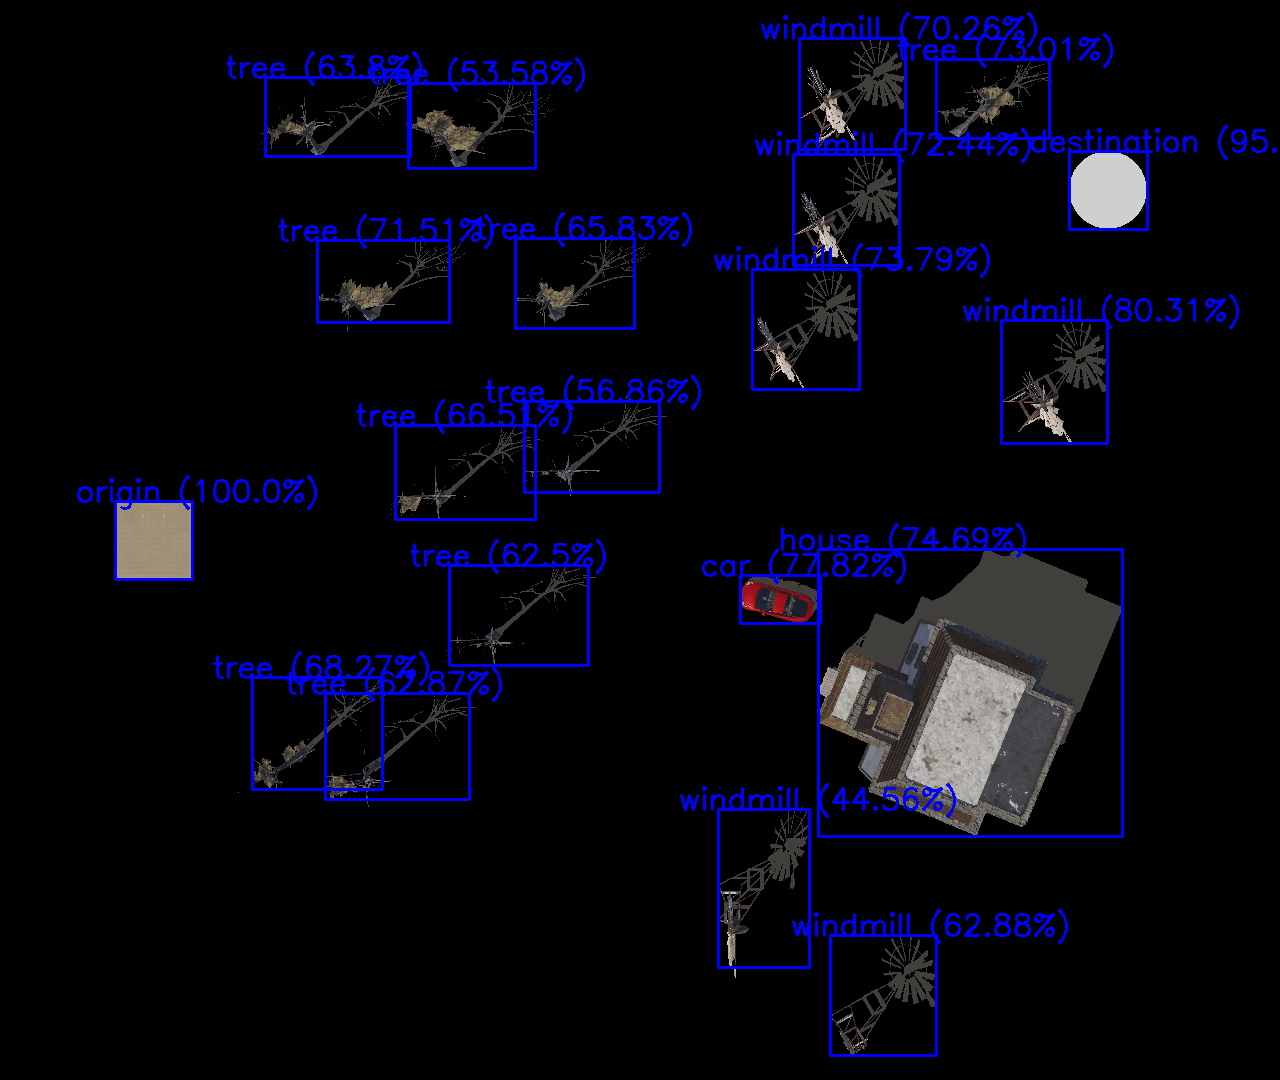
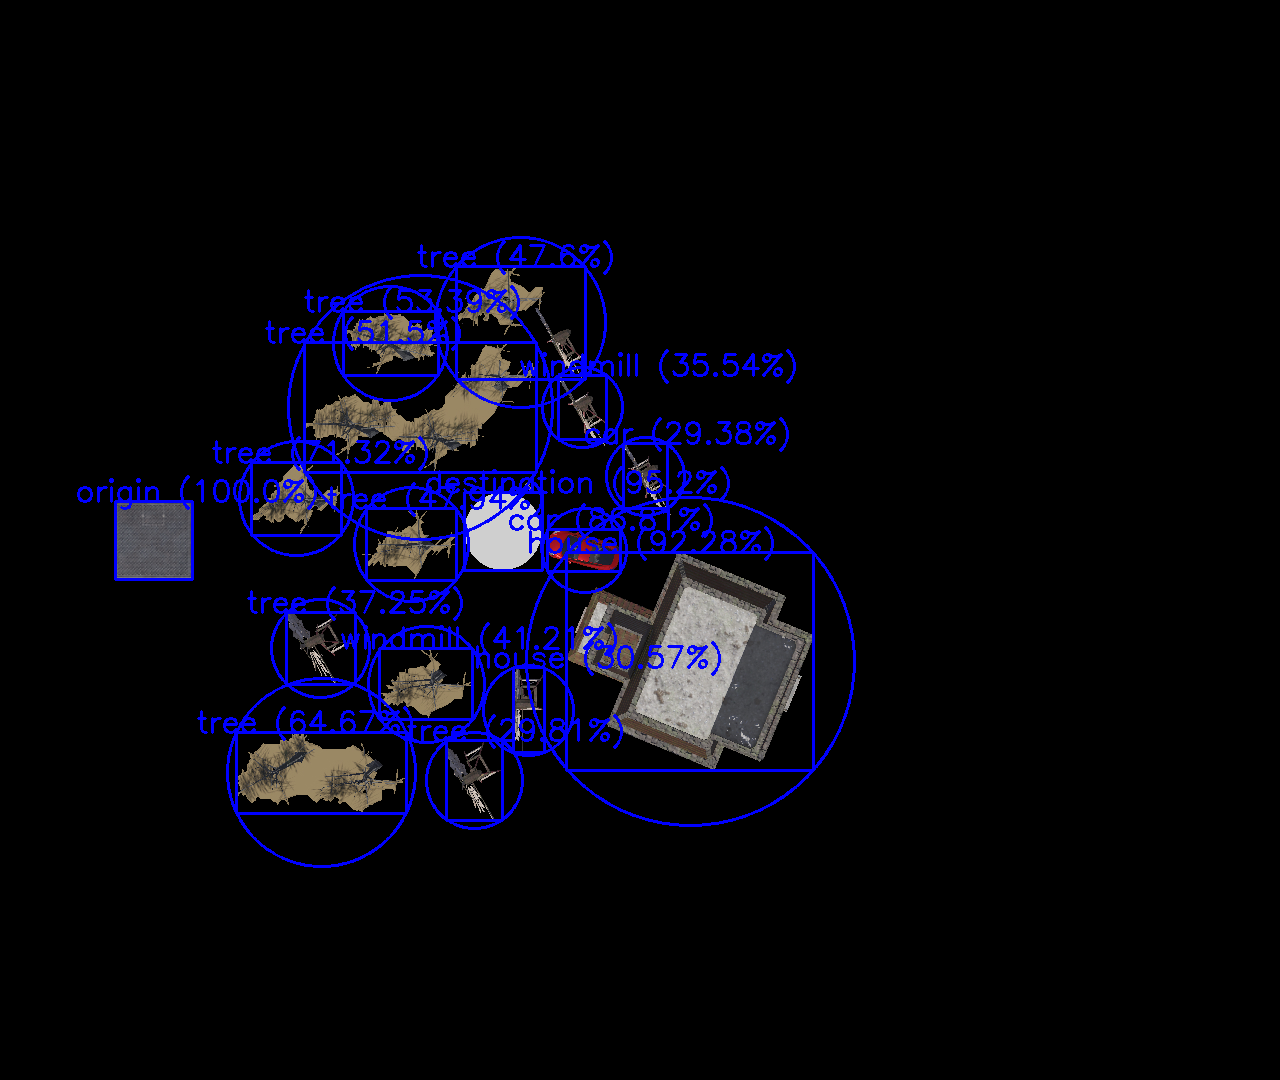
update

diff --git a/mavic_Edit_python/controllers/mavic2proPython/image_processing.py b/mavic_Edit_python/controllers/mavic2proPython/image_processing.py
@@ -70,6 +70,7 @@ def process():
     destination = str(round(1034/xL))+", "+str(round(184/yL))
     obstacles = np.array(["empty"])
     
+    contoursNew = np.array([[1, 2, 3]])
     divisions = img.copy()
     i=0
     #print(len(contours))
@@ -120,7 +121,8 @@ def process():
             else:
                 temp = str(round(x/xL))+","+str(round(y/yL))+";"+str(round((x+w)/xL))+","+str(round((y+h)/yL))
                 obstacles = np.concatenate((obstacles,[temp]), axis=0)
-            
+                contoursNew = np.concatenate((contoursNew,[[x+w/2, y+h/2, math.sqrt(w**2+h**2)/2]]), axis=0)
+                divisions = cv.circle(divisions, (round(x+w/2),round(y+h/2)), int(math.sqrt(w**2+h**2)/2), (255, 0, 0), 2)
             i=i+1
         else:
             contours.pop(i)
@@ -163,7 +165,7 @@ def process():
     utils = Utils()
     utils.drawMap(allObs, current, destination)
     
-    numSamples= 500
+    numSamples= 250
     prm = PRMController(numSamples, allObs, current, destination)
     # Initial random seed to try
     initialRandomSeed = 0
@@ -176,18 +178,59 @@ def process():
     j=0
     for j in range(len(ySol)-1):
         solutionImg = cv.line(solutionImg, (int(xSol[j]), int(ySol[j])), (int(xSol[j+1]), int(ySol[j+1])), (255, 0, 0), 2)
-    cv.imshow('Soution', solutionImg)
+    
     ###cv.imwrite("images\solution.png", solutionImg)
     
     solutionImgO = OrigImag.copy()
     j=0
     for j in range(len(ySol)-1):
         solutionImgO = cv.line(solutionImgO, (int(xSol[j]), int(ySol[j])), (int(xSol[j+1]), int(ySol[j+1])), (255, 0, 0), 2)
-    cv.imshow('Soution Map', solutionImgO)
+    
     ###cv.imwrite("images\solutionMap.png", solutionImgO)
     
     #xSol = -0.064637985309549*(xSol-157)
     #ySol = -0.065317919075145*(ySol-539)
+    contoursNew = np.delete(contoursNew, 0, axis=0)
+    print("contoursNew")
+    print(contoursNew)
+    i=0
+    while i<len(ySol):
+        j=i+2
+        iteration = 0
+        while j<len(ySol):
+            mI=ySol[i]
+            b=xSol[i]
+            k=(ySol[j]-ySol[i])/(xSol[j]-xSol[i])
+            freeObst = True
+            for cN in range(len(contoursNew)):
+                x=(contoursNew[cN,0]+contoursNew[cN,1]*k-mI*k+b*k**2)/(1+k**2);
+                y= mI+(x-b)*k
+                distObs=math.sqrt((contoursNew[cN,0]-x)**2+(contoursNew[cN,1]-y)**2)-2
+                interX = (x<xSol[j] and x>xSol[i]) or (x>xSol[j] and x<xSol[i])
+                interY = (y<ySol[j] and y>ySol[i]) or (y>ySol[j] and y<ySol[i])
+                if(contoursNew[cN, 2]>distObs and interX and interY):
+                    freeObst = False
+            if(freeObst):
+                xSol = np.delete(xSol, range(i+1,j), axis=0)
+                ySol = np.delete(ySol, range(i+1,j), axis=0)
+                j=i+2
+            else:
+                j=j+1
+            iteration = iteration+1
+        i=i+1
+            
+    j=0
+    for j in range(len(ySol)-1):
+        solutionImg = cv.line(solutionImg, (int(xSol[j]), int(ySol[j])), (int(xSol[j+1]), int(ySol[j+1])), (0, 255, 0), 2)
+    cv.imshow('Soution', solutionImg)
+    ###cv.imwrite("images\solution.png", solutionImg)
+    
+    solutionImgO = OrigImag.copy()
+    j=0
+    for j in range(len(ySol)-1):
+        solutionImgO = cv.line(solutionImgO, (int(xSol[j]), int(ySol[j])), (int(xSol[j+1]), int(ySol[j+1])), (0, 255, 0), 2)
+    cv.imshow('Soution Map', solutionImgO)
+    
     
     Sol = np.concatenate(([xSol], [ySol], np.ones((1, np.size(xSol, axis=0)))), axis=0)    
     #Sol = np.array([[-0.56648, 0.022008, -2.96859],[0.362136, 0.932125,-559.271],[0,0,1]])*Sol

diff --git a/mavic_Edit_python/controllers/mavic2proPython/mavic2proPython.py b/mavic_Edit_python/controllers/mavic2proPython/mavic2proPython.py
@@ -119,7 +119,7 @@ print(Sol)
 #headTo(0,0.75,0,6)
 #headTo(0,1,0,6)
 #headTo(0,1.2,0,6)
-speed=0.05
+speed=1.2
 i=1
 while i<np.size(Sol, 1):
     distance =  math.sqrt((Sol[0, i]-Sol[0, i-1])**2+(Sol[1, i]-Sol[1, i-1])**2+(Sol[2, i]-Sol[2, i-1])**2)
@@ -134,7 +134,7 @@ while i<np.size(Sol, 1):
         xStep = (1-j/div)*Sol[0, i-1]+(j/div)*Sol[0, i]
         yStep = (1-j/div)*Sol[1, i-1]+(j/div)*Sol[1, i]
         zStep = (1-j/div)*Sol[2, i-1]+(j/div)*Sol[2, i]
-        headTo(yStep,-xStep,zStep,time/div)#(xStep,zStep,yStep,time)
+        headTo(yStep,-xStep,zStep,math.pi-1.25)#(xStep,zStep,yStep,time)
     i=i+1
 #headTo(2.0,1.5,1,2.4)
 #headTo(2.0,1,1,2.4)
